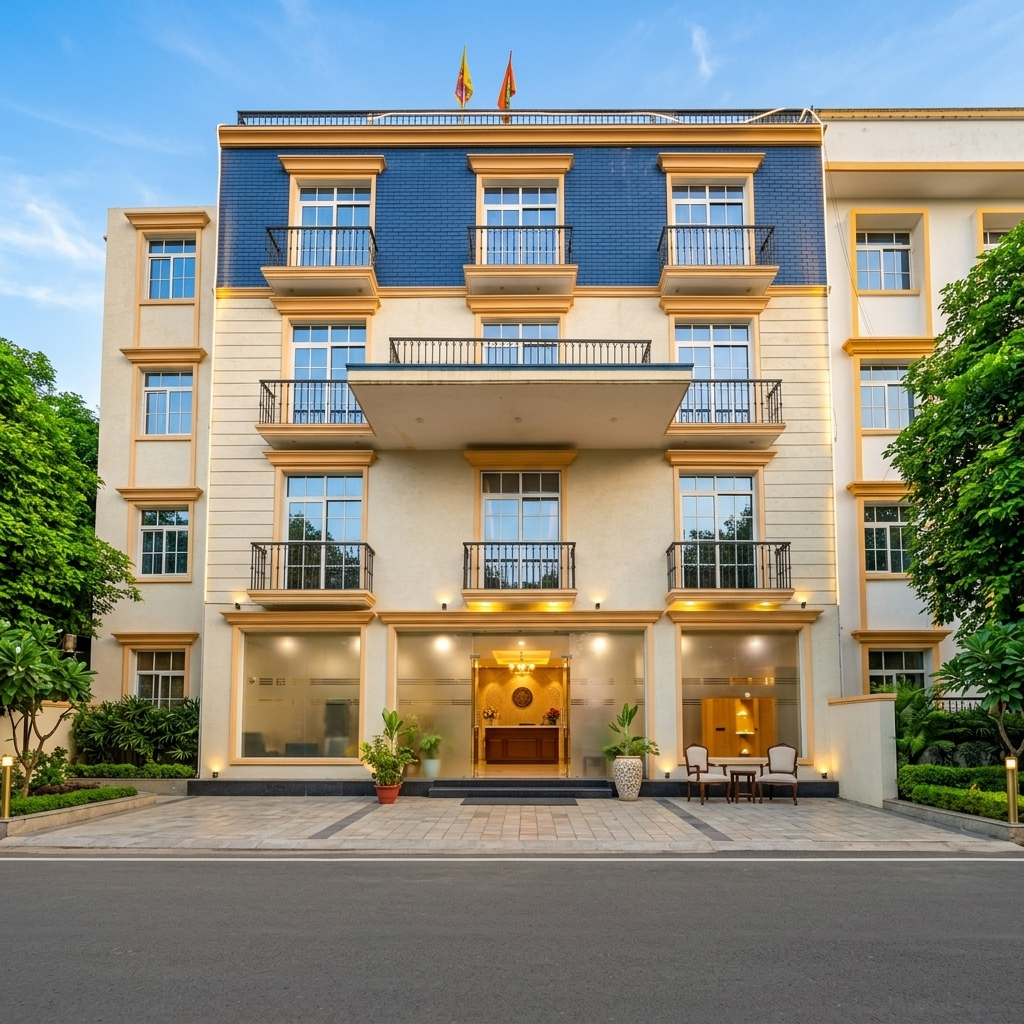
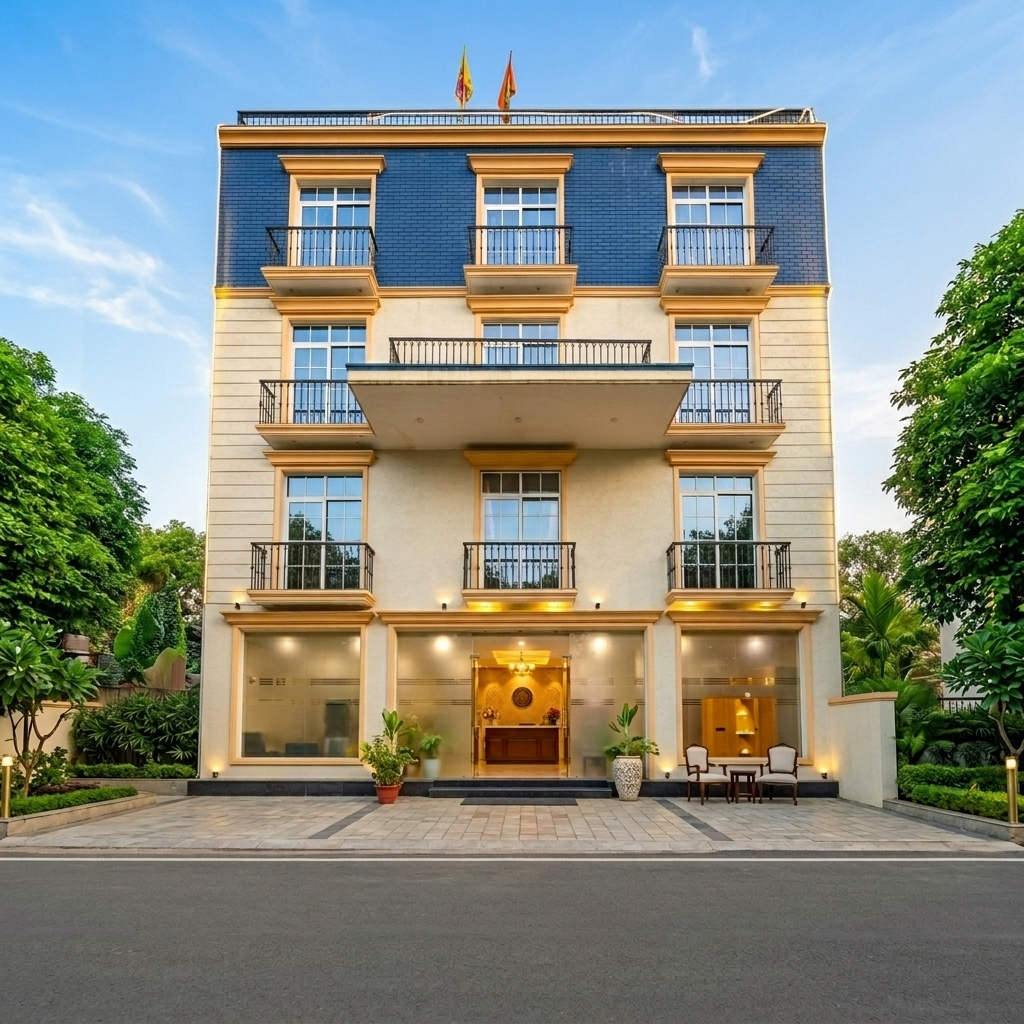
Update: Remove room pricing, integrate MakeMyTrip & Agoda links, remove redundant search summary, and optimize hero and bedroom assets

diff --git a/frontend/src/App.jsx b/frontend/src/App.jsx
@@ -57,7 +57,7 @@ const roomsData = [
     bed: '2 King Beds',
     bath: '1 Bathroom',
     desc: 'Specially designed suite featuring exquisite teakwood furnishings, warm mood lighting, and modern workspace. Ideal for premium corporate guests.',
-    image: '/blue_vista_bed.jpg',
+    image: '/blue_vista_bed.png',
     features: ['Free Wi-Fi', 'Air Conditioning', 'Flat-screen TV', 'Work Desk', 'Mini Bar', 'Premium Toiletries']
   }
 ];
@@ -217,7 +217,27 @@ function App() {
 
           <div className="nav-right">
             <span className="lang-toggle">EN / FR</span>
-            <button className="nav-btn" onClick={() => setView('availability')}>Check Availability</button>
+            <div className="nav-dropdown">
+              <button className="nav-btn">Book Online</button>
+              <div className="nav-dropdown-content">
+                <a 
+                  href="https://www.makemytrip.com/hotels/the_blue_vista-details-greater_noida.html?cmp=SEM%7CD%7CDH%7CG%7CDSA%7CDH_DSA_Mobile%7CPmax&gad_source=1&gad_campaignid=21268867335&gbraid=0AAAAAD5Az1TapmHCvoV9CcpHhTNPxP2C5&gclid=CjwKCAjw6MPRBhBTEiwAd-7Mrwam3BnLZQJ750wnUv8WbhsIZ_OWnxy5nIAraTFxByjwQ5FvPG53OhoCkUUQAvD_BwE"
+                  target="_blank"
+                  rel="noopener noreferrer"
+                  onClick={fireGtagConversion}
+                >
+                  MakeMyTrip
+                </a>
+                <a 
+                  href="https://www.agoda.com/en-in/the-blue-vista/hotel/new-delhi-and-ncr-in.html?countryId=35&finalPriceView=1&isShowMobileAppPrice=false&cid=1922866&numberOfBedrooms=&familyMode=false&adults=1&children=0&rooms=1&maxRooms=0&checkIn=2026-06-25&isCalendarCallout=false&childAges=&numberOfGuest=0&missingChildAges=false&travellerType=-1&showReviewSubmissionEntry=false&currencyCode=INR&isFreeOccSearch=false&tag=dd2e710e-88c4-4639-9c69-76f32ba50e6b&los=1&searchrequestid=1cb9b50e-af2b-4137-ab68-21355b4a5b2c&ds=Uf0OZ3yYg%2F%2B%2F%2Fs%2BW"
+                  target="_blank"
+                  rel="noopener noreferrer"
+                  onClick={fireGtagConversion}
+                >
+                  Agoda
+                </a>
+              </div>
+            </div>
           </div>
         </header>
 
@@ -276,7 +296,7 @@ function App() {
         <>
           <section className="about-section">
             <div className="about-images">
-              <img src="/blue_vista_bed.jpg" alt="Boutique Luxury Suite" className="img-main" />
+              <img src="/blue_vista_bed.png" alt="Boutique Luxury Suite" className="img-main" />
               <img src="/blue_vista_img2.png" alt="Guest Suite Corridor" className="img-overlay" />
             </div>
             <div className="about-content">
@@ -455,25 +475,6 @@ function App() {
       {/* VIEW: AVAILABILITY ROOM SEARCH RESULTS */}
       {view === 'availability' && (
         <div className="availability-page animate-fade-in">
-          <div className="search-summary-bar">
-            <div className="summary-item">
-              <span className="summary-label">CHECK IN</span>
-              <span className="summary-value">{checkIn}</span>
-            </div>
-            <div className="summary-item border-left">
-              <span className="summary-label">CHECK OUT</span>
-              <span className="summary-value">{checkOut}</span>
-            </div>
-            <div className="summary-item border-left">
-              <span className="summary-label">NIGHTS</span>
-              <span className="summary-value">{nights}</span>
-            </div>
-            <div className="summary-item border-left">
-              <span className="summary-label">GUESTS</span>
-              <span className="summary-value">{guests}</span>
-            </div>
-            <button className="edit-search-btn" onClick={() => setView('home')}>Modify Search</button>
-          </div>
 
           <div className="availability-layout">
             {/* Rooms List Column */}
@@ -491,10 +492,6 @@ function App() {
                     <div className="room-card-body">
                       <div className="room-card-header">
                         <h3>{room.name}</h3>
-                        <div className="room-card-price">
-                          <span className="rate">{formatPrice(room.price)}</span>
-                          <span className="per-night">/ night</span>
-                        </div>
                       </div>
                       
                       <div className="room-card-specs">
@@ -556,31 +553,41 @@ function App() {
                     <div className="divider"></div>
                     <div className="selected-room-info">
                       <h4>{selectedRoom.name}</h4>
-                      <p className="base-price">{formatPrice(selectedRoom.price)} x {nights} nights</p>
                     </div>
                     
                     <div className="divider"></div>
-                    <div className="invoice-rows">
-                      <div className="invoice-row">
-                        <span>Room Total:</span>
-                        <span>{formatPrice(selectedRoom.price * nights)}</span>
-                      </div>
-                      <div className="invoice-row">
-                        <span>GST / Service Charge (12%):</span>
-                        <span>{formatPrice(selectedRoom.price * nights * 0.12)}</span>
-                      </div>
-                      <div className="divider"></div>
-                      <div className="invoice-row grand-total">
-                        <span>Grand Total:</span>
-                        <span className="price-bold">{formatPrice((selectedRoom.price * nights) * 1.12)}</span>
-                      </div>
-                    </div>
-
+                    <h4 style={{ fontSize: '0.75rem', color: '#a0a0a0', marginBottom: '0.75rem', textTransform: 'uppercase', letterSpacing: '0.1em', fontWeight: 600 }}>Book Online</h4>
+                    
                     <a 
-                      href={`mailto:[email redacted]?subject=Booking Inquiry for ${selectedRoom.name}&body=Hello Blue Vista Concierge,%0D%0A%0D%0AI would like to inquire about booking the ${selectedRoom.name} for the following dates:%0D%0ACheck-In: ${checkIn}%0D%0ACheck-Out: ${checkOut}%0D%0AGuests: ${guests}%0D%0A%0D%0APlease let me know availability and booking details.`}
+                      href="https://www.makemytrip.com/hotels/the_blue_vista-details-greater_noida.html?cmp=SEM%7CD%7CDH%7CG%7CDSA%7CDH_DSA_Mobile%7CPmax&gad_source=1&gad_campaignid=21268867335&gbraid=0AAAAAD5Az1TapmHCvoV9CcpHhTNPxP2C5&gclid=CjwKCAjw6MPRBhBTEiwAd-7Mrwam3BnLZQJ750wnUv8WbhsIZ_OWnxy5nIAraTFxByjwQ5FvPG53OhoCkUUQAvD_BwE"
+                      target="_blank"
+                      rel="noopener noreferrer"
                       className="proceed-checkout-btn"
                       onClick={fireGtagConversion}
-                      style={{ display: 'block', textDecoration: 'none', textAlign: 'center', lineHeight: '45px', height: '45px', padding: 0 }}
+                      style={{ display: 'block', textDecoration: 'none', textAlign: 'center', lineHeight: '45px', height: '45px', padding: 0, marginTop: '0.5rem' }}
+                    >
+                      Book via MakeMyTrip
+                    </a>
+                    
+                    <a 
+                      href="https://www.agoda.com/en-in/the-blue-vista/hotel/new-delhi-and-ncr-in.html?countryId=35&finalPriceView=1&isShowMobileAppPrice=false&cid=1922866&numberOfBedrooms=&familyMode=false&adults=1&children=0&rooms=1&maxRooms=0&checkIn=2026-06-25&isCalendarCallout=false&childAges=&numberOfGuest=0&missingChildAges=false&travellerType=-1&showReviewSubmissionEntry=false&currencyCode=INR&isFreeOccSearch=false&tag=dd2e710e-88c4-4639-9c69-76f32ba50e6b&los=1&searchrequestid=1cb9b50e-af2b-4137-ab68-21355b4a5b2c&ds=Uf0OZ3yYg%2F%2B%2F%2Fs%2BW"
+                      target="_blank"
+                      rel="noopener noreferrer"
+                      className="proceed-checkout-btn"
+                      onClick={fireGtagConversion}
+                      style={{ display: 'block', textDecoration: 'none', textAlign: 'center', lineHeight: '45px', height: '45px', padding: 0, marginTop: '0.75rem', background: 'transparent', border: '1px solid #d8c3a5', color: '#d8c3a5' }}
+                    >
+                      Book via Agoda
+                    </a>
+
+                    <div className="divider" style={{ margin: '1.5rem 0 1rem 0' }}></div>
+                    <h4 style={{ fontSize: '0.75rem', color: '#a0a0a0', marginBottom: '0.75rem', textTransform: 'uppercase', letterSpacing: '0.1em', fontWeight: 600 }}>Direct Inquiry</h4>
+                    
+                    <a 
+                      href={`mailto:[email redacted]?subject=Booking Inquiry for ${selectedRoom.name}&body=Hello Blue Vista Concierge,%0D%0A%0D%0AI would like to inquire about booking the ${selectedRoom.name} for the following dates:%0D%0ACheck-In: ${checkIn}%0D%0ACheck-Out: ${checkOut}%0D%0AGuests: ${guests}%0D%0A%0D%0APlease let me know availability and booking details.`}
+                      className="checkout-back-btn"
+                      onClick={fireGtagConversion}
+                      style={{ display: 'block', textDecoration: 'none', textAlign: 'center', lineHeight: '45px', height: '45px', padding: 0, border: '1px solid rgba(255, 255, 255, 0.15)', color: '#fff', borderRadius: '2px', display: 'flex', alignItems: 'center', justifyContent: 'center' }}
                     >
                       Inquire via Email
                     </a>
@@ -591,7 +598,7 @@ function App() {
                       rel="noopener noreferrer"
                       className="checkout-back-btn"
                       onClick={fireGtagConversion}
-                      style={{ display: 'block', textDecoration: 'none', textAlign: 'center', lineHeight: '45px', height: '45px', marginTop: '0.75rem', padding: 0 }}
+                      style={{ display: 'block', textDecoration: 'none', textAlign: 'center', lineHeight: '45px', height: '45px', marginTop: '0.75rem', padding: 0, border: '1px solid #25D366', color: '#25D366', borderRadius: '2px', display: 'flex', alignItems: 'center', justifyContent: 'center' }}
                     >
                       Inquire via WhatsApp
                     </a>
@@ -599,7 +606,7 @@ function App() {
                 ) : (
                   <div className="no-room-selected">
                     <div className="divider"></div>
-                    <p>Please select a room from the list to view pricing and proceed with booking.</p>
+                    <p>Please select a room from the list to proceed with booking.</p>
                   </div>
                 )}
               </div>

diff --git a/frontend/src/index.css b/frontend/src/index.css
@@ -157,6 +157,56 @@ body {
   background: rgba(216, 195, 165, 0.1);
 }
 
+/* Navigation Dropdown Container */
+.nav-dropdown {
+  position: relative;
+  display: inline-block;
+}
+
+/* Dropdown Content (Hidden by Default) */
+.nav-dropdown-content {
+  display: none;
+  position: absolute;
+  right: 0;
+  background-color: #111111;
+  min-width: 180px;
+  box-shadow: 0px 8px 24px 0px rgba(0,0,0,0.6);
+  border: 1px solid rgba(216, 195, 165, 0.3);
+  z-index: 1000;
+  border-radius: 2px;
+  margin-top: 5px;
+}
+
+/* Links inside the dropdown */
+.nav-dropdown-content a {
+  color: #c0c0c0;
+  padding: 12px 16px;
+  text-decoration: none;
+  display: block;
+  font-family: 'Montserrat', sans-serif;
+  font-size: 0.75rem;
+  font-weight: 500;
+  letter-spacing: 0.1em;
+  text-transform: uppercase;
+  transition: all 0.3s ease;
+  border-bottom: 1px solid rgba(255, 255, 255, 0.05);
+}
+
+.nav-dropdown-content a:last-child {
+  border-bottom: none;
+}
+
+/* Change color of dropdown links on hover */
+.nav-dropdown-content a:hover {
+  background-color: rgba(216, 195, 165, 0.1);
+  color: #d8c3a5;
+}
+
+/* Show the dropdown menu on hover */
+.nav-dropdown:hover .nav-dropdown-content {
+  display: block;
+}
+
 .main-content {
   flex: 1;
   display: flex;
@@ -2638,7 +2688,7 @@ body {
 
 /* Call To Action Banner */
 .support-cta-banner {
-  background-image: linear-gradient(rgba(0, 0, 0, 0.75), rgba(0, 0, 0, 0.9)), url('/blue_vista_bed.jpg');
+  background-image: linear-gradient(rgba(0, 0, 0, 0.75), rgba(0, 0, 0, 0.9)), url('/blue_vista_bed.png');
   background-size: cover;
   background-position: center;
   padding: 8rem 2rem;